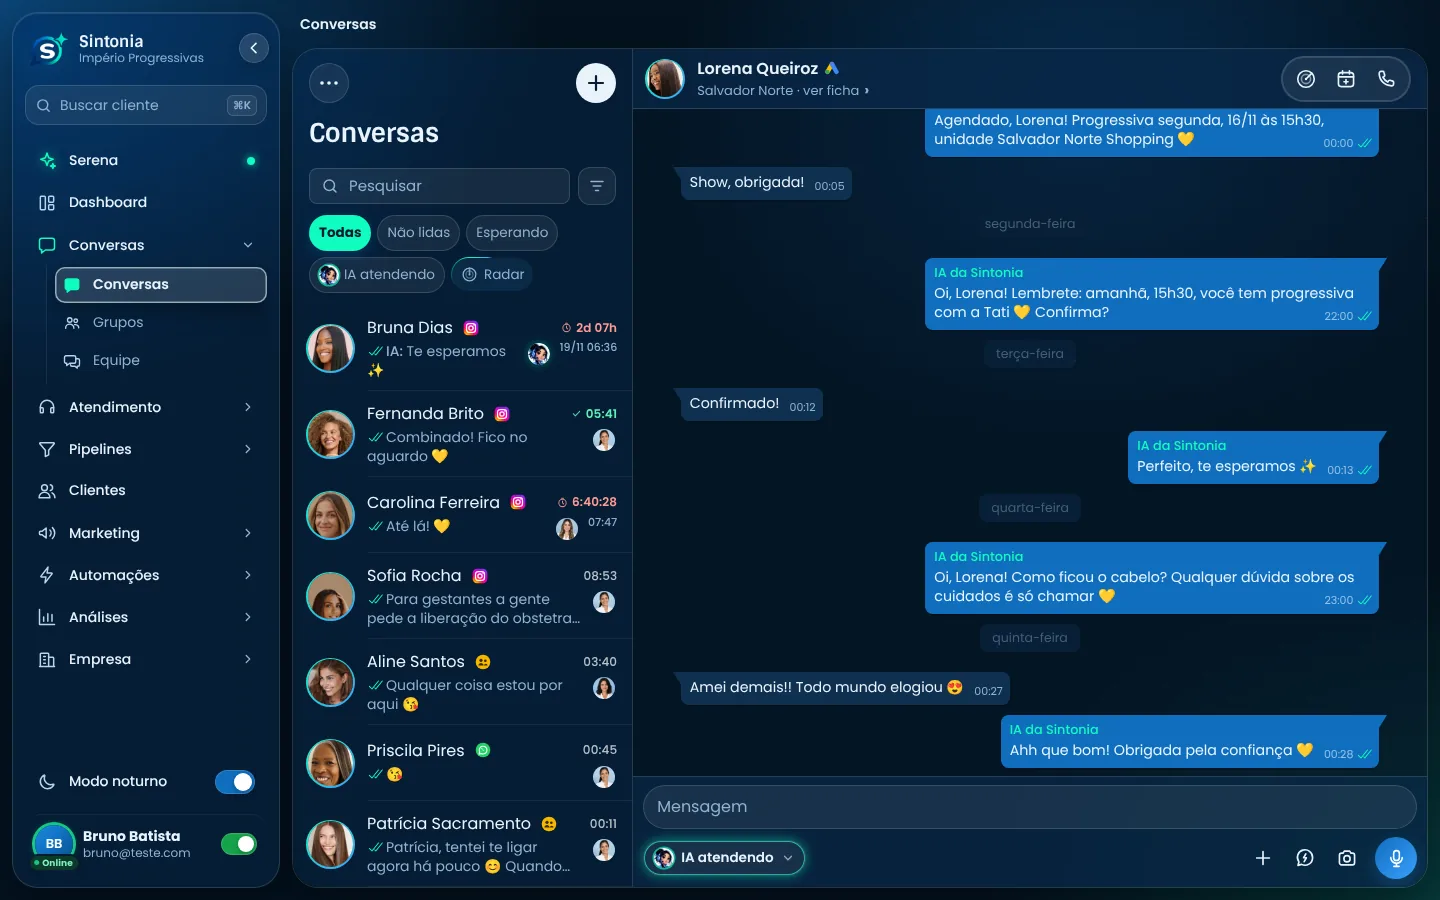
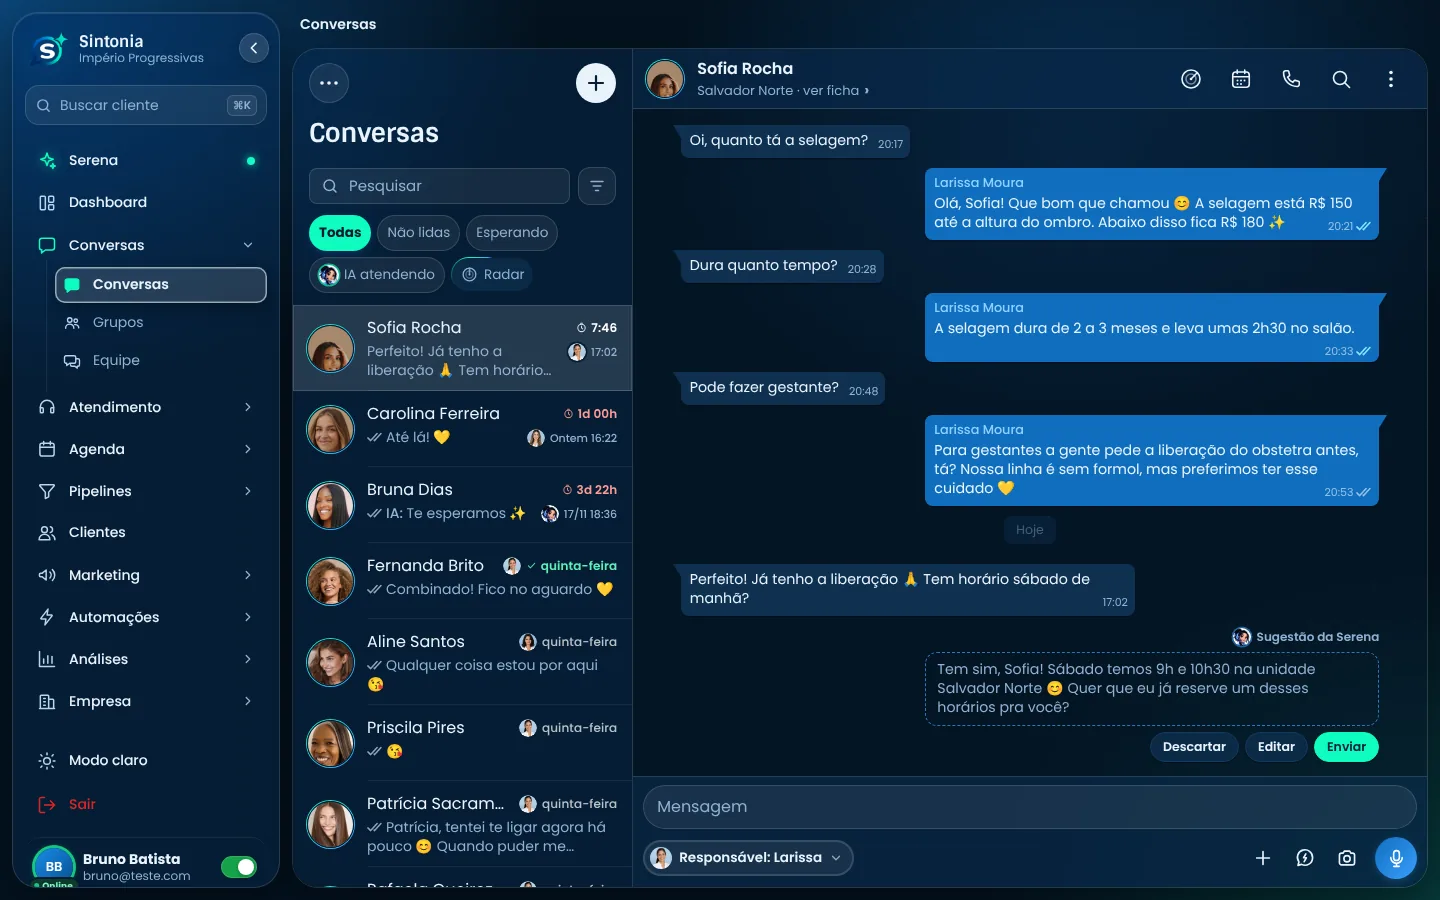
Página de vendas: prints novos das telas atuais (computador com balão de sugestão, iPhone e TV), cache v=2211
Claude-Session: https://claude.ai/code/session_01HxkLZ1Hj69FpMdpf1DdpF6

diff --git a/public/index.html b/public/index.html
@@ -8,7 +8,7 @@
 <meta name="theme-color" content="#04121F">
 <meta property="og:title" content="Sintonia CRM · CRM de WhatsApp com IA">
 <meta property="og:description" content="CRM para vender e atender no WhatsApp, com uma IA que atende, vende e agenda 24 horas. By Império Progressivas.">
-<meta property="og:image" content="/vendas/mac-conversas-1440.webp?v=2111">
+<meta property="og:image" content="/vendas/mac-conversas-1440.webp?v=2211">
 <link rel="icon" href="/favicon-64.png" type="image/png" sizes="64x64" media="(prefers-color-scheme: light)">
 <link rel="icon" href="/favicon-escuro-64.png" type="image/png" sizes="64x64" media="(prefers-color-scheme: dark)">
 <link rel="icon" href="/favicon-32.png" type="image/png" sizes="32x32">
@@ -21,7 +21,7 @@
 <link rel="preconnect" href="https://fonts.googleapis.com">
 <link rel="preconnect" href="https://fonts.gstatic.com" crossorigin>
 <link rel="stylesheet" href="https://fonts.googleapis.com/css2?family=Poppins:wght@400;500;600;700&family=Sintony:wght@700&display=swap">
-<link rel="preload" as="image" href="/vendas/mac-conversas-1440.webp?v=2111" imagesrcset="/vendas/mac-conversas-1440.webp?v=2111 1440w" imagesizes="(max-width: 760px) 100vw, 840px">
+<link rel="preload" as="image" href="/vendas/mac-conversas-1440.webp?v=2211" imagesrcset="/vendas/mac-conversas-1440.webp?v=2211 1440w" imagesizes="(max-width: 760px) 100vw, 840px">
 <link rel="stylesheet" href="/estilo.css">
 <style>/* sem-pagamento: botões de WhatsApp (os planos mostram o preço, mas contratar é só pelo WhatsApp) */
 .v-wa-ic { flex: none; }
@@ -74,13 +74,13 @@ a[data-whats] { display: inline-flex; align-items: center; justify-content: cent
     <div class="v-miolo v-palco-cena">
       <div class="v-palco" id="palco">
         <div class="v-brilho" aria-hidden="true"></div>
-        <div class="v-tv v-tv-palco" aria-hidden="true"><div class="v-tv-moldura"><img src="/vendas/tv-sala-960.webp?v=2111" srcset="/vendas/tv-sala-960.webp?v=2111 960w, /vendas/tv-sala-1920.webp?v=2111 1920w" sizes="(max-width: 760px) 70vw, 560px" width="1920" height="1080" alt="" fetchpriority="high" decoding="async"></div><span class="v-tv-vivo"><i></i>Dashboard para sua equipe em tempo real</span></div>
-        <div class="v-mac"><div class="v-tampa"><div class="v-tela"><img src="/vendas/mac-conversas-1440.webp?v=2111" srcset="/vendas/mac-conversas-1440.webp?v=2111 1440w" sizes="(max-width: 760px) 100vw, 840px" width="1440" height="900" alt="Tela de Conversas da Sintonia no computador: lista de clientes com tags e uma conversa aberta com a sugestão da IA" fetchpriority="high" decoding="async"></div></div><div class="v-base"></div></div>
+        <div class="v-tv v-tv-palco" aria-hidden="true"><div class="v-tv-moldura"><img src="/vendas/tv-sala-960.webp?v=2211" srcset="/vendas/tv-sala-960.webp?v=2211 960w, /vendas/tv-sala-1920.webp?v=2211 1920w" sizes="(max-width: 760px) 70vw, 560px" width="1920" height="1080" alt="" fetchpriority="high" decoding="async"></div><span class="v-tv-vivo"><i></i>Dashboard para sua equipe em tempo real</span></div>
+        <div class="v-mac"><div class="v-tampa"><div class="v-tela"><img src="/vendas/mac-conversas-1440.webp?v=2211" srcset="/vendas/mac-conversas-1440.webp?v=2211 1440w" sizes="(max-width: 760px) 100vw, 840px" width="1440" height="900" alt="Tela de Conversas da Sintonia no computador: lista de clientes com tags e uma conversa aberta com a sugestão da IA" fetchpriority="high" decoding="async"></div></div><div class="v-base"></div></div>
         <figure class="v-foto v-foto-heroi" data-foto="heroi">
           <img src="/vendas/foto-heroi-720.webp" srcset="/vendas/foto-heroi-480.webp 480w, /vendas/foto-heroi-720.webp 720w" sizes="(max-width: 760px) 44vw, 280px" width="720" height="960" alt="Cliente sorrindo depois de agendar pelo WhatsApp" fetchpriority="high" decoding="async">
           <figcaption><b>Atendida em minutos</b>e agendada sem sair do WhatsApp</figcaption>
         </figure>
-        <div class="v-iphone"><div class="v-corpo"><div class="v-moldura"><div class="v-visor"><div class="v-ilha"></div><div class="v-status"><span>9:41</span><span><svg viewBox="0 0 18 12" fill="currentColor" aria-hidden="true"><rect x="0" y="8" width="3" height="4" rx="1"/><rect x="5" y="5.5" width="3" height="6.5" rx="1"/><rect x="10" y="3" width="3" height="9" rx="1"/><rect x="15" y="0" width="3" height="12" rx="1"/></svg><svg viewBox="0 0 16 12" fill="currentColor" aria-hidden="true"><path d="M8 2.2c2.3 0 4.4.9 6 2.4l1.2-1.3A10.4 10.4 0 0 0 8 .4 10.4 10.4 0 0 0 .8 3.3L2 4.6a8.6 8.6 0 0 1 6-2.4Zm0 3.6c1.3 0 2.5.5 3.4 1.3l1.3-1.3A6.6 6.6 0 0 0 8 4a6.6 6.6 0 0 0-4.7 1.8l1.3 1.3c.9-.8 2.1-1.3 3.4-1.3Zm0 3.6c-.6 0-1.1.2-1.5.6L8 11.6l1.5-1.6c-.4-.4-.9-.6-1.5-.6Z"/></svg><svg viewBox="0 0 27 12" fill="none" aria-hidden="true"><rect x=".5" y=".5" width="22" height="11" rx="3.5" stroke="currentColor" opacity=".4"/><rect x="2" y="2" width="17" height="8" rx="2" fill="currentColor"/><path d="M24.5 4v4c.8-.3 1.3-1.1 1.3-2s-.5-1.7-1.3-2Z" fill="currentColor" opacity=".5"/></svg></span></div><img src="/vendas/iphone-conversa-860.webp?v=2111" srcset="/vendas/iphone-conversa-430.webp?v=2111 430w, /vendas/iphone-conversa-860.webp?v=2111 860w" sizes="(max-width: 760px) 45vw, 340px" width="430" height="912" alt="Conversa no celular: a IA tira a dúvida da cliente e o horário fica agendado" fetchpriority="high" decoding="async"></div></div></div></div>
+        <div class="v-iphone"><div class="v-corpo"><div class="v-moldura"><div class="v-visor"><div class="v-ilha"></div><div class="v-status"><span>9:41</span><span><svg viewBox="0 0 18 12" fill="currentColor" aria-hidden="true"><rect x="0" y="8" width="3" height="4" rx="1"/><rect x="5" y="5.5" width="3" height="6.5" rx="1"/><rect x="10" y="3" width="3" height="9" rx="1"/><rect x="15" y="0" width="3" height="12" rx="1"/></svg><svg viewBox="0 0 16 12" fill="currentColor" aria-hidden="true"><path d="M8 2.2c2.3 0 4.4.9 6 2.4l1.2-1.3A10.4 10.4 0 0 0 8 .4 10.4 10.4 0 0 0 .8 3.3L2 4.6a8.6 8.6 0 0 1 6-2.4Zm0 3.6c1.3 0 2.5.5 3.4 1.3l1.3-1.3A6.6 6.6 0 0 0 8 4a6.6 6.6 0 0 0-4.7 1.8l1.3 1.3c.9-.8 2.1-1.3 3.4-1.3Zm0 3.6c-.6 0-1.1.2-1.5.6L8 11.6l1.5-1.6c-.4-.4-.9-.6-1.5-.6Z"/></svg><svg viewBox="0 0 27 12" fill="none" aria-hidden="true"><rect x=".5" y=".5" width="22" height="11" rx="3.5" stroke="currentColor" opacity=".4"/><rect x="2" y="2" width="17" height="8" rx="2" fill="currentColor"/><path d="M24.5 4v4c.8-.3 1.3-1.1 1.3-2s-.5-1.7-1.3-2Z" fill="currentColor" opacity=".5"/></svg></span></div><img src="/vendas/iphone-conversa-860.webp?v=2211" srcset="/vendas/iphone-conversa-430.webp?v=2211 430w, /vendas/iphone-conversa-860.webp?v=2211 860w" sizes="(max-width: 760px) 45vw, 340px" width="430" height="912" alt="Conversa no celular: a IA tira a dúvida da cliente e o horário fica agendado" fetchpriority="high" decoding="async"></div></div></div></div>
         <div class="v-chip c1" aria-hidden="true"><span class="v-chip-ic"><svg viewBox="0 0 24 24" fill="currentColor" aria-hidden="true"><path d="M12 2.5l1.9 5.6 5.6 1.9-5.6 1.9L12 17.5l-1.9-5.6L4.5 10l5.6-1.9z"/><path d="M19 15l.8 2.2 2.2.8-2.2.8L19 21l-.8-2.2-2.2-.8 2.2-.8z"/></svg></span><span><b>Sugestão da IA pronta</b><small>um toque para enviar</small></span></div>
         <div class="v-chip c2" aria-hidden="true"><span class="v-chip-ic menta"><svg viewBox="0 0 24 24" fill="none" stroke="currentColor" stroke-width="2" stroke-linecap="round" stroke-linejoin="round" aria-hidden="true"><rect x="3" y="5" width="18" height="16" rx="3"/><path d="M3 10h18M8 3v4M16 3v4M8 14h3"/></svg></span><span><b>Horário agendado</b><small>terça, 11h30</small></span></div>
         <div class="v-chip c3" aria-hidden="true"><img src="/vendas/equipe-03.webp" width="68" height="68" alt=""><span><b>Quem atende: Camila</b><small>IA no modo Sugestões</small></span></div>
